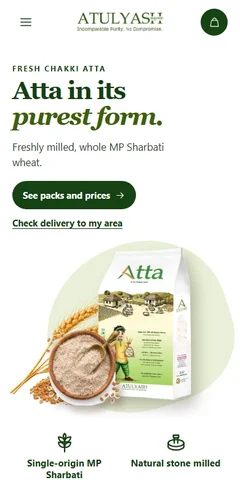
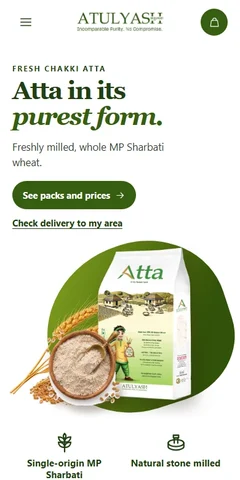
Use Harvest Grove greens in Pure and Simple

Changed region(s): [[0.175, 0.5, 0.9917, 0.875], [0.0583, 0.375, 0.5833, 0.4375], [0.8167, 0.0, 0.9625, 0.0938]]

diff --git a/opening/reference-media/designs.css b/opening/reference-media/designs.css
@@ -170,21 +170,29 @@ main { padding-bottom: clamp(20px, 5vw, 48px); }
 .gold .packs { background: #fff4d5; border-radius: var(--radius); padding: 16px 10px; text-align: center; }
 .gold .pack-card { background: #fffdfa; border: 1px solid #f4dfae; }
 
-.grove { --display: "Trebuchet MS", system-ui, sans-serif; --ink: #213f14; --button: #365e12; --accent: #8b4700; --panel: #f5f2df; }
+.grove, .white {
+  --ink: #213f14;
+  --button: #365e12;
+  --wheat-green: #88a720;
+  --canopy-green: #325109;
+  --pale-green: #eef0d6;
+  --hero-green: linear-gradient(125deg, var(--wheat-green), var(--canopy-green) 77%);
+}
+.grove { --display: "Trebuchet MS", system-ui, sans-serif; --accent: #8b4700; --panel: #f5f2df; }
 .grove .hero { background: #fbf1db; }
-.grove .hero-shape { inset: 0 -16% 3% 12%; border-radius: 67% 13% 0 18%; background: linear-gradient(125deg,#88a720,#325109 77%); transform: rotate(-8deg); }
+.grove .hero-shape { inset: 0 -16% 3% 12%; border-radius: 67% 13% 0 18%; background: var(--hero-green); transform: rotate(-8deg); }
 .grove .pack-photo { background: #ecefcf; }
 .grove .pack-card:nth-child(2) .pack-photo { background: #ffe7ac; }
-.grove .facts-panel { background: #eef0d6; padding: 24px 11px 14px; border-radius: var(--radius); text-align: center; }
+.grove .facts-panel { background: var(--pale-green); padding: 24px 11px 14px; border-radius: var(--radius); text-align: center; }
 .grove .facts-panel li { background: #fffaf0; }
 
-.white { --paper: #fff; --outer: #f4f4eb; --panel: #f6f7e9; --ink: #173e15; --button: #164213; --accent: #3d5f0e; }
-.white .hero-shape { inset: 4% 4% 4% 19%; transform: rotate(-18deg); border-radius: 53% 46% 38% 48%; background: #eaf0d8; }
+.white { --paper: #fff; --outer: #f4f4eb; --panel: var(--pale-green); --accent: var(--button); }
+.white .hero-shape { inset: 4% 4% 4% 19%; transform: rotate(-18deg); border-radius: 53% 46% 38% 48%; background: var(--hero-green); }
 .white .story-photo { order: 0; }
 .white .facts-strip { margin-top: 14px; }
 .white .packs ul { align-items: start; }
-.white .pack-card:nth-child(2) { outline: 1px solid #7c983b; outline-offset: -1px; }
-.white .closing { background: #f9faef; }
+.white .pack-card:nth-child(2) { outline: 1px solid var(--wheat-green); outline-offset: -1px; }
+.white .closing { background: var(--pale-green); }
 
 @media (max-width: 359px) {
   .pack-action { font-size: .74rem; }

diff --git a/opening/index.html b/opening/index.html
@@ -36,7 +36,7 @@ a.card:hover,a.card:focus-visible{border-color:var(--ink);outline:none}
     <li><a class="card" href="13-saffron-market/"><span class="sw" aria-hidden="true"><i style="background:#fcf8ef"></i><i style="background:#ffb20d"></i><i style="background:#163d24"></i><i style="background:#f9eed8"></i></span><span><b>7. Saffron Market</b><span>Cream and saffron, with the pouch up front and a market-style pack grid.</span></span></a></li>
     <li><a class="card" href="14-golden-kitchen/"><span class="sw" aria-hidden="true"><i style="background:#ffbf0d"></i><i style="background:#163d24"></i><i style="background:#fffaf0"></i><i style="background:#fff3d8"></i></span><span><b>8. Golden Kitchen</b><span>A golden hero, kitchen films and an everyday-meals photo mosaic.</span></span></a></li>
     <li><a class="card" href="15-harvest-grove/"><span class="sw" aria-hidden="true"><i style="background:#365e12"></i><i style="background:#88a720"></i><i style="background:#fbf1db"></i><i style="background:#ffe7ac"></i></span><span><b>9. Harvest Grove</b><span>A green sweep, featured packs and a collage of wheat, milling and rotis.</span></span></a></li>
-    <li><a class="card" href="16-pure-and-simple/"><span class="sw" aria-hidden="true"><i style="background:#ffffff"></i><i style="background:#eaf0d8"></i><i style="background:#164213"></i><i style="background:#f6f7e9"></i></span><span><b>10. Pure and Simple</b><span>A clean white opening, roti photography and the three delivery steps.</span></span></a></li>
+    <li><a class="card" href="16-pure-and-simple/"><span class="sw" aria-hidden="true"><i style="background:#ffffff"></i><i style="background:#88a720"></i><i style="background:#365e12"></i><i style="background:#eef0d6"></i></span><span><b>10. Pure and Simple</b><span>A clean white opening, roti photography and the three delivery steps.</span></span></a></li>
   </ol>
 </div>
 </body>
